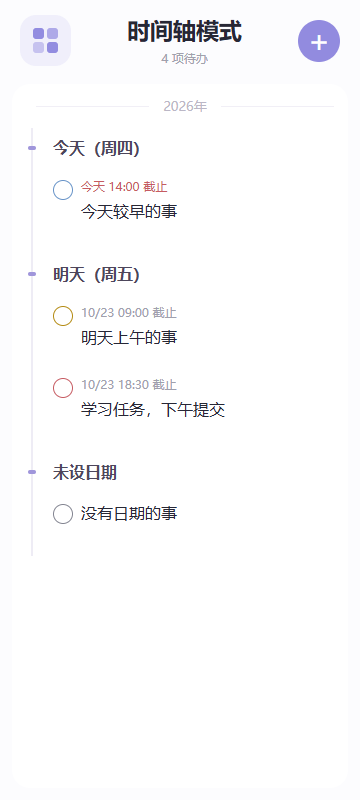
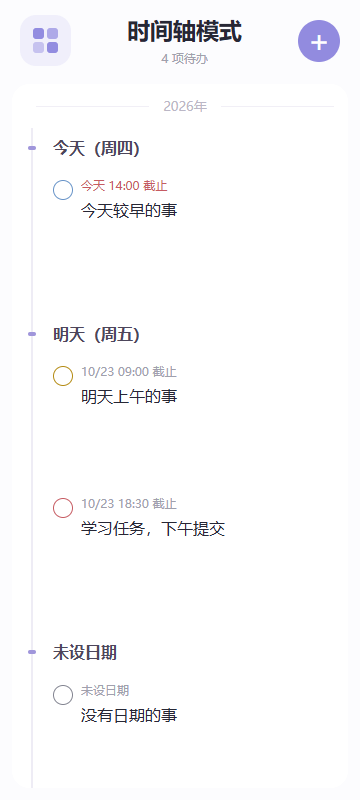
Keep overview tasks equal-height and expand full text in details

diff --git a/tests/compact-tasks-check.js b/tests/compact-tasks-check.js
@@ -1,0 +1,91 @@
+const {chromium} = require('playwright');
+const assert = require('node:assert/strict');
+const path = require('node:path');
+
+(async () => {
+  const browser = await chromium.launch({channel: 'msedge', headless: true});
+  const page = await browser.newPage({viewport: {width: 360, height: 800}, timezoneId: 'Asia/Shanghai'}), errors = [];
+  page.on('pageerror', error => errors.push(error.message));
+  await page.clock.install({time: new Date('2026-10-22T12:00:00+08:00')});
+  await page.goto('http://127.0.0.1:8766/');
+  const longText = '# 实验安排\n' + Array.from({length: 100}, (_, i) => '第' + (i + 1) + '项：检查实验数据并记录结果。').join('\n');
+  await page.evaluate(text => {
+    const C = window.FufuCore, state = C.createState();
[1 lines of base64/hex data omitted]
+    C.saveTask(state, {text: '报名', quadrant: 1});
+    C.saveTask(state, {text, quadrant: 1, due: '2026-10-29', time: '18:30'});
+    C.saveTask(state, {text: 'https://github.com/Tabassa/fufu-list#' + '超长链接'.repeat(30), quadrant: 1, due: '2027-10-22', time: '20:00', images: [image, image, image]});
+    const done = C.saveTask(state, {text, quadrant: 2}); C.toggleDone(state, done.id);
+    C.saveTask(state, {text: '带图片的短待办', quadrant: 3, images: [image]});
+    C.saveTask(state, {text: '复习', quadrant: 4, due: '2026-10-30'});
+    localStorage.setItem('fufu-list.v1', C.serialize(state));
+  }, longText);
+  await page.reload();
+  for (const view of ['matrix', 'timeline']) {
+    await page.locator('#open-modes').click(); await page.locator('[data-view="' + view + '"]').click();
+    for (const viewport of [{width: 360, height: 800}, {width: 320, height: 568}, {width: 800, height: 1280}, {width: 1280, height: 800}]) {
+      await page.setViewportSize(viewport);
+      const metrics = await page.locator('.task').evaluateAll(rows => rows.map(row => {
+        const title = row.querySelector('.task-title'), rect = row.getBoundingClientRect();
+        return {height: rect.height, titleHeight: title.getBoundingClientRect().height, lineHeight: parseFloat(getComputedStyle(title).lineHeight)};
+      }));
+      assert.equal(metrics.length, 6);
+      assert.ok(metrics.every(row => Math.abs(row.height - metrics[0].height) < .1), 'short/long/dated/undated/attached/completed rows have equal heights at ' + view + ' ' + viewport.width);
+      assert.ok(metrics.every(row => row.titleHeight <= row.lineHeight * 2 + 1), 'overview text is at most two lines');
+      assert.equal(await page.evaluate(() => document.documentElement.scrollWidth), viewport.width, 'no horizontal overflow');
+      if (view === 'matrix' && viewport.width === 360) await page.screenshot({path: path.resolve(__dirname, '../qa/compact-tasks-phone.png')});
+    }
+  }
+  await page.setViewportSize({width: 360, height: 800});
+  await page.locator('.task[data-id="2"] .task-open').click();
+  assert.equal(await page.locator('#task-text').inputValue(), longText);
+  let area = await page.locator('#task-text').evaluate(element => ({height: element.clientHeight, scroll: element.scrollHeight}));
+  assert.ok(area.height > 2000 && area.scroll <= area.height + 1, 'detail field expands to full text without an inner scrollbar');
+  assert.ok(await page.locator('.editing .sheet-body').evaluate(element => element.scrollHeight > element.clientHeight), 'detail page itself scrolls');
+  await page.screenshot({path: path.resolve(__dirname, '../qa/expanded-detail-phone.png')});
+  await page.locator('#task-text').fill('缩短正文');
+  assert.ok(await page.locator('#task-text').evaluate(element => element.clientHeight) < 200, 'detail field shrinks after editing');
+  await page.setViewportSize({width: 360, height: 450});
+  await page.locator('#task-text').fill(Array.from({length: 100}, (_, i) => 'Line ' + (i + 1)).join('\n'));
+  await page.locator('#task-text').focus(); await page.keyboard.press('Control+End');
+  await page.evaluate(() => {
+    const text = document.querySelector('#task-text'), body = document.querySelector('.editing .sheet-body'), style = getComputedStyle(text);
+    const caretBottom = text.getBoundingClientRect().top + parseFloat(style.paddingTop) + text.value.split('\n').length * parseFloat(style.lineHeight) - text.scrollTop;
+    body.scrollTop += caretBottom - body.getBoundingClientRect().top - body.clientHeight / 2;
+  });
+  const beforeTyping = await page.locator('.editing .sheet-body').evaluate(element => element.scrollTop);
+  await page.keyboard.type('a');
+  const afterTyping = await page.locator('.editing .sheet-body').evaluate(element => element.scrollTop);
+  assert.ok(Math.abs(afterTyping - beforeTyping) < 2, 'typing without a height change does not jump the scrolled detail page: ' + beforeTyping + ' -> ' + afterTyping);
+  await page.evaluate(() => {
+    const text = document.querySelector('#task-text'), body = document.querySelector('.editing .sheet-body'), style = getComputedStyle(text);
+    const caretBottom = text.getBoundingClientRect().top + parseFloat(style.paddingTop) + text.value.split('\n').length * parseFloat(style.lineHeight) - text.scrollTop;
+    body.scrollTop += caretBottom - body.getBoundingClientRect().bottom + 2;
+  });
+  await page.keyboard.press('Enter'); await page.keyboard.type('Next line');
+  const caret = await page.evaluate(() => {
+    const text = document.querySelector('#task-text'), body = document.querySelector('.editing .sheet-body').getBoundingClientRect(), style = getComputedStyle(text), lineHeight = parseFloat(style.lineHeight), fontSize = parseFloat(style.fontSize);
+    const top = text.getBoundingClientRect().top + parseFloat(style.paddingTop) + (text.value.split('\n').length - 1) * lineHeight + (lineHeight - fontSize) / 2 - text.scrollTop;
+    return {top, bottom: top + fontSize, bodyTop: body.top, bodyBottom: body.bottom};
+  });
+  await page.screenshot({path: path.resolve(__dirname, '../qa/compact-typing-keyboard.png')});
+  assert.ok(caret.top >= caret.bodyTop - 1 && caret.bottom <= caret.bodyBottom + 1, 'new lines keep the typing caret visible: ' + JSON.stringify(caret));
+  await page.locator('#task-text').fill(longText + '\n最后一行：完整保存。');
+  await page.setViewportSize({width: 800, height: 1280});
+  area = await page.locator('#task-text').evaluate(element => ({height: element.clientHeight, scroll: element.scrollHeight}));
+  assert.ok(area.scroll <= area.height + 1, 'expanded detail reflows on screen width changes');
+  await page.locator('#header-save').click();
+  await page.reload();
+  await page.locator('.task[data-id="2"] .task-open').click();
+  assert.equal(await page.locator('#task-text').inputValue(), longText + '\n最后一行：完整保存。');
+  await page.locator('#cancel').click();
+  await page.locator('.task[data-id="3"] .thumb-button').first().click();
+  assert.equal(await page.locator('#image-viewer').isVisible(), true, 'compact thumbnails still open all saved attachments');
+  assert.match(await page.locator('#image-position').innerText(), /1\s*\/\s*3/);
+  await page.locator('#close-viewer').click();
+  await page.clock.runFor(60000);
+  assert.equal(await page.locator('.task[data-id="1"] .due').innerText(), '未设日期');
+  assert.deepEqual(errors, []);
+  await browser.close();
+  console.log('PASS: equal overview rows across phones/tablets and both modes; two-line previews; expanding/reflowing details; full text and attachments preserved');
+})().catch(error => { console.error(error); process.exit(1); });

diff --git a/assets/app.js b/assets/app.js
@@ -85,8 +85,8 @@
   }
   function updateDue(element, task) {
     const now = new Date(), clock = String(now.getHours()).padStart(2, '0') + ':' + String(now.getMinutes()).padStart(2, '0');
-    element.className = 'due' + (!task.done && task.due <= today() ? ' urgent' : '');
-    element.textContent = C.dueLabel(task.due, today(), task.done, task.time, clock);
+    element.className = 'due' + (task.due && !task.done && task.due <= today() ? ' urgent' : '');
+    element.textContent = task.due ? C.dueLabel(task.due, today(), task.done, task.time, clock) : '未设日期';
   }
   function taskRow(t) {
     const q = t.quadrant, row = document.createElement('article'); row.className = 'task q' + q + (t.done ? ' done' : ''); row.dataset.id = t.id;
@@ -94,7 +94,7 @@
     const tick = document.createElement('span'); tick.textContent = '✓'; check.appendChild(tick); check.addEventListener('click', () => mutate(s => C.toggleDone(s, t.id)));
     const content = document.createElement('div'); content.className = 'task-content';
     const open = document.createElement('button'); open.className = 'task-open'; open.setAttribute('aria-label', '编辑：' + t.text); open.addEventListener('click', () => openEditor(q, t));
-    if (t.due) { const due = document.createElement('span'); updateDue(due, t); open.appendChild(due); }
+    const due = document.createElement('span'); updateDue(due, t); open.appendChild(due);
     const text = document.createElement('span'); text.className = 'task-title'; text.textContent = t.text; open.appendChild(text); content.appendChild(open);
     if (t.images.length) { const images = document.createElement('div'); images.className = 'task-images'; t.images.slice(0, 3).forEach((file, index) => { const button = thumb(file, '查看附件图片 ' + (index + 1), () => showImages(t.images, index)); if (index === 2 && t.images.length > 3) { const more = document.createElement('span'); more.className = 'more-images'; more.textContent = '+' + (t.images.length - 2); button.appendChild(more); } images.appendChild(button); }); content.appendChild(images); }
     const front = document.createElement('div'); front.className = 'task-front'; front.append(check, content);
@@ -169,6 +169,15 @@
     ['#save-task', '#header-save', '#delete-task', '#cancel', '#add-images'].forEach(id => { $(id).disabled = value; });
     $('#add-images').textContent = value ? '正在导入…' : '＋ 添加图片';
   }
+  function resizeTaskText() {
+    if (!draft) return;
+    const text = $('#task-text');
+    if (!$('#editor-layer').hidden && $('#editor-layer').classList.contains('editing')) {
+      const body = $('#editor .sheet-body'), scroll = body.scrollTop;
+      text.style.height = 'auto'; text.style.height = text.scrollHeight + 'px';
+      body.scrollTop = scroll;
+    } else text.style.height = '';
+  }
   function openEditor(q, task, recovered) {
     closeSwipe();
     draft = recovered || (task ? {...task, images: task.images.slice()} : {text: '', quadrant: q, due: '', time: '', images: []});
@@ -176,7 +185,7 @@
     $('#editor-title').textContent = task ? '编辑待办' : '添加待办'; $('#task-text').value = draft.text; $('#task-quadrant').value = draft.quadrant; $('#task-due').value = draft.due;
     $('#delete-task').hidden = !task; $('#form-error').hidden = true; $('#editor-layer').classList.toggle('editing', !!task); $('#editor-layer').hidden = false; updatePrioritySummary(); updateDateSummary(); renderDraftImages();
     rememberDraft();
-    updateRecognition();
+    updateRecognition(); resizeTaskText();
     if (!task && !recovered) { $('#task-text').focus(); if (native) native.showKeyboard(); }
   }
   function updateDateSummary() {
@@ -264,8 +273,9 @@
     try { const next = C.deserialize(C.serialize(state)); C.saveTask(next, {...draft, text: $('#task-text').value, quadrant: Number($('#task-quadrant').value), due: $('#task-due').value}); commit(next); closeEditor(); }
     catch (error) { $('#form-error').textContent = error.message; $('#form-error').hidden = false; }
   });
-  $('#task-text').addEventListener('input', e => { if (e.isComposing) rememberDraft(); else recognizeDeadline(); });
+  $('#task-text').addEventListener('input', e => { resizeTaskText(); if (e.isComposing) rememberDraft(); else recognizeDeadline(); });
   $('#task-text').addEventListener('compositionend', recognizeDeadline);
+  window.addEventListener('resize', resizeTaskText);
   $('#use-recognized-date').addEventListener('click', () => { draft.dateManual = false; recognizeDeadline(); });
   $('#open-date').addEventListener('click', () => { $('#task-text').blur(); if (native) native.hideKeyboard(); window.FufuCalendar.open($('#task-due').value, draft.time, (date, time) => { $('#task-due').value = date; draft.time = time; draft.dateManual = true; updateDateSummary(); updateRecognition(); rememberDraft(); }); });
   $('#clear-date').addEventListener('click', () => { $('#task-due').value = ''; draft.time = ''; draft.dateManual = true; updateDateSummary(); updateRecognition(); rememberDraft(); });

diff --git a/assets/style.css b/assets/style.css
@@ -26,3 +26,5 @@
 .page-header{gap:10px}.page-header .app-mark{border:0;flex:none}.header-title{flex:1;min-width:0;text-align:center}.page-header .header-title h1{font-size:23px;letter-spacing:0;white-space:nowrap}.header-add{width:42px;height:42px;flex:none;border:0;border-radius:50%;background:#928bdf;color:white;font-size:30px;line-height:1;padding:0}.mode-overlay{z-index:40;padding:0;align-items:stretch;justify-content:flex-start}.mode-panel{width:260px;max-width:82%;background:#f0eff9;padding:25px 18px}.mode-heading{display:flex;align-items:center;justify-content:space-between;margin-bottom:24px}.mode-heading h2{font-size:19px;font-weight:650;margin:0 0 0 8px}.view-option{width:100%;display:flex;align-items:center;gap:13px;min-height:62px;background:none;border:0;border-radius:13px;color:#676174;padding:11px;font-size:16px;text-align:left}.view-option[aria-pressed=true]{background:white;color:#857bd0}.mode-check{margin-left:auto;visibility:hidden;font-size:19px}.view-option[aria-pressed=true] .mode-check{visibility:visible}.mode-grid-symbol{display:grid;grid-template-columns:8px 8px;grid-template-rows:8px 8px;gap:2px;color:#a49adb;flex:none}.mode-grid-symbol i{background:currentColor;border-radius:2px}.mode-line-symbol{font-size:26px;color:#a49adb;width:18px;line-height:1;flex:none}.timeline{flex:1;min-height:0;overflow-y:auto;padding:7px 14px 22px;background:white;border-radius:18px}.timeline-year{display:flex;align-items:center;gap:14px;color:#bbb7c6;font-size:13px;padding:7px 0 14px 10px}.timeline-year::before,.timeline-year::after{content:"";height:1px;background:#f1eff6;flex:1}.timeline-group{position:relative;border-left:2px solid #eeecf5;margin-left:5px;padding:7px 0 15px 20px}.timeline-group>h2{font-size:16px;margin:0 0 5px;line-height:1.7;color:#4d465b;font-weight:600}.timeline-group::before{content:"";position:absolute;left:-5px;top:18px;width:8px;height:4px;border-radius:3px;background:#a096db}.task.q1{--q:#c65b62}.timeline .task-front{padding-top:10px;padding-bottom:14px}.timeline .task-title{font-size:16px}.timeline .task{border-bottom:0}.timeline .due{font-size:12px}.timeline .check{margin-top:3px}
 @media(min-width:600px){.timeline{padding:16px 30px 25px;max-width:1000px;width:100%;align-self:center}.timeline .task-title{font-size:18px}.timeline-group{padding-left:25px}.page-header .header-title h1{font-size:26px}}
 @media(max-width:359px){.page-header{gap:7px;padding-left:2px;padding-right:2px}.page-header .header-title h1{font-size:20px}.header-add{width:37px;height:37px}}
+.task{height:132px}.task-front,.timeline .task-front{height:100%;padding:10px 0}.task-content{height:100%;display:flex;flex-direction:column;min-height:0}.task-open{display:flex;flex-direction:column;align-items:stretch;justify-content:flex-start;flex:1;min-height:0;overflow:hidden}.task-title{display:-webkit-box;-webkit-box-orient:vertical;-webkit-line-clamp:2;overflow:hidden;flex:none}.due{flex:none;line-height:18px;min-height:18px;white-space:nowrap;overflow:hidden;text-overflow:ellipsis}.task-images{flex:none;flex-wrap:nowrap;margin-top:auto;padding-top:4px}.task-images .thumb-button{width:32px;height:32px;flex:0 1 32px;min-width:0}.editing textarea{max-height:none;overflow:hidden}
+@media(min-width:600px){.task{height:144px}.task-front,.timeline .task-front{padding:12px 0}}

diff --git a/README.md b/README.md
@@ -1,14 +1,16 @@
-# 夫夫清单 1.0.3
+# 夫夫清单 1.0.4
 
 供 Android 手机和平板使用的本地待办清单，支持四象限和时间轴。界面参考用户提供的原子清单截图，应用独立制作。
 
-1.0.3 将安卓桌面图标替换为用户提供的四格插画，适配不同屏幕密度和系统图标形状；原图保存在 `artwork/launcher-original.png`。
+1.0.4 将总览中的每条待办统一为等高单元，长文字最多预览两行，打开详情后完整展开。手机和平板、四象限和时间轴均适用。
+
+安卓桌面图标采用用户提供的四格插画，适配不同屏幕密度和系统图标形状；原图保存在 `artwork/launcher-original.png`。
 
 <img src="artwork/launcher-original.png" alt="夫夫清单桌面图标" width="96">
 
 ## 下载安装
 
-- [直接下载 1.0.3 安卓安装包](https://github.com/Tabassa/fufu-list/releases/download/v1.0.3/fufu-list-1.0.3.apk)
+- [直接下载 1.0.4 安卓安装包](https://github.com/Tabassa/fufu-list/releases/download/v1.0.4/fufu-list-1.0.4.apk)
 - [查看最新发布版本](https://github.com/Tabassa/fufu-list/releases/latest)
 
 手机或平板下载 APK 后打开安装，也可以先下载到电脑，再通过 QQ 发送至设备。不需要编译源码。
@@ -19,9 +21,13 @@
 
 <img src="docs/timeline.png" alt="按截止日期和时间排列的时间轴" width="300"> <img src="docs/priority.png" alt="彩色四宫格优先级选择" width="300"> <img src="docs/time-wheel.png" alt="小时和分钟滚轮选择截止时间" width="300">
 
+总览中的待办保持同样高度，带日期、无日期、图片附件和长文字均不会撑大格子。文字超出两行时省略显示，正文完整保留；点开详情后文字框自动展开，整页可滚动阅读和编辑。
+
+<img src="docs/expanded-detail.png" alt="长篇待办在详情中完整展开" width="300">
+
 ## 使用
 
-1. 将 `fufu-list-1.0.3.apk` 通过 QQ 发送到手机或平板，下载完整后点击安装。若系统要求授权，允许此次用于打开 APK 的 QQ 或文件管理器安装应用。
+1. 将 `fufu-list-1.0.4.apk` 通过 QQ 发送到手机或平板，下载完整后点击安装。若系统要求授权，允许此次用于打开 APK 的 QQ 或文件管理器安装应用。
 2. 首次打开就是四象限。点击左上角四象限图标，在「展示模式」中切换四象限或时间轴。时间轴跨象限按截止日期和时间从近到远排列；未设日期和已完成的任务放在后面。
 3. 点击任一象限右上角「＋」新增，该象限自动成为默认优先级；右上角总「＋」也可直接新增。点击优先级会弹出彩色四宫格，选中后保存即可移动象限。点击「日期」在月历上选择一天，点击「具体时间」用小时、分钟两列滚轮选择，再点「确定」和「保存」。只有一个截止时间，日期与时间直接显示在任务中。
 4. 点击「添加图片」调用系统选择器，可附多张图片。缩略图可点开看大图，支持双指缩放；编辑页可移除附件。
@@ -59,7 +65,7 @@
 
 ## 构建源码
 
-应用 ID：`com.fufu.todo`，版本：`1.0.3`。Java Activity 承载完全本地的 HTML/CSS/JS 页面，系统文档选择器负责导入图片，`AtomicFile` 保存任务 JSON。不申请网络和广泛相册权限。
+应用 ID：`com.fufu.todo`，版本：`1.0.4`。Java Activity 承载完全本地的 HTML/CSS/JS 页面，系统文档选择器负责导入图片，`AtomicFile` 保存任务 JSON。不申请网络和广泛相册权限。
 
 使用 Windows PowerShell 7、JDK 17、Android SDK Platform 35 / Build Tools 35.0.0。无需 Gradle 或在线依赖解析。将源码目录与以下 `toolchain` 目录并排放置：
 
@@ -73,11 +79,11 @@ work/
     sdk/build-tools/35.0.0/
 ```
 
-在源码目录运行 `./build.ps1`，生成 `build/fufu-list-1.0.3.apk`。第一次构建会在同级 `fufu-signing` 目录生成本地签名密钥。仓库不包含私钥、Android SDK、JDK 或用户数据。重新生成的密钥与 Releases 中 APK 的签名不同；覆盖升级须继续使用原签名密钥。
+在源码目录运行 `./build.ps1`，生成 `build/fufu-list-1.0.4.apk`。第一次构建会在同级 `fufu-signing` 目录生成本地签名密钥。仓库不包含私钥、Android SDK、JDK 或用户数据。重新生成的密钥与 Releases 中 APK 的签名不同；覆盖升级须继续使用原签名密钥。
 
 核心和识别测试：`node --test tests/core.test.js tests/deadline.test.js`。
 
-浏览器检查需要安装 Playwright 并可运行 Edge。先在源码目录执行 `python -m http.server 8766 --bind 127.0.0.1 --directory assets`，再依次执行 `node tests/browser-check.js`、`node tests/lifecycle-check.js`、`node tests/gestures-check.js`、`node tests/time-wheel-check.js`、`node tests/timeline-check.js` 和 `node tests/deadline-browser-check.js`。
+浏览器检查需要安装 Playwright 并可运行 Edge。先在源码目录执行 `python -m http.server 8766 --bind 127.0.0.1 --directory assets`，再依次执行 `node tests/browser-check.js`、`node tests/lifecycle-check.js`、`node tests/gestures-check.js`、`node tests/time-wheel-check.js`、`node tests/timeline-check.js`、`node tests/deadline-browser-check.js` 和 `node tests/compact-tasks-check.js`。
 
 ## 开源来源
 

diff --git a/VALIDATION.md b/VALIDATION.md
@@ -1,5 +1,14 @@
 # 交付验证记录
 
+## 1.0.4 验证（2026-10-22）
+
+- 核心及日期识别测试 15/15 通过；浏览器完整操作、选图生命周期、左滑删除、滚轮、时间轴、正文识别、等高预览与长文编辑共 7 个交互检查通过。
+- 四象限和时间轴在 320×568、360×800、800×1280、1280×800 逻辑屏幕下，短正文、百行长文、长链接、日期/无日期、三张附件和已完成任务均保持相同单元高度；正文预览不超过两行，页面无横向溢出。不同宽度使用相应固定行高。
+- 详情文字框按全文自动展开，正文缩短后会收回；改变屏幕宽度后重新排版。百行文字在编辑、保存、刷新后逐字保留，缩略图仍可打开三张附件。
+- 模拟键盘占用后的 360×450 视口中，长文末尾实际逐字输入不改变已有滚动位置；底部换行后的光标仍可见。自动测量文字高度时保存并恢复页面滚动位置。
+- Android 15 实际 APK：1.0.3 覆盖升级保留已有两条任务和原截止时间；另载入百行长文作为排版样例，四象限总览截断显示，详情可整页滑至第 100 行及后续属性。点击保存后，私有 JSON 保留完整正文，强制停止再打开也保留。
+- 版本 `1.0.4` / code 5；原包名及证书，v1/v2/v3 签名通过，打包页面与所测文件逐字节一致。未连接 vivo 实机。
+
 ## 1.0.3 验证（2026-10-22）
 
 - 将桌面图标替换为用户提供的四格插画。原图独立保存且字节校验一致；生成 48/72/96/144/192 像素的传统桌面图标，以及适配系统遮罩的自适应图标。
